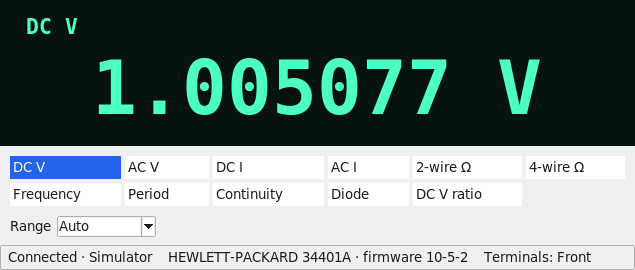
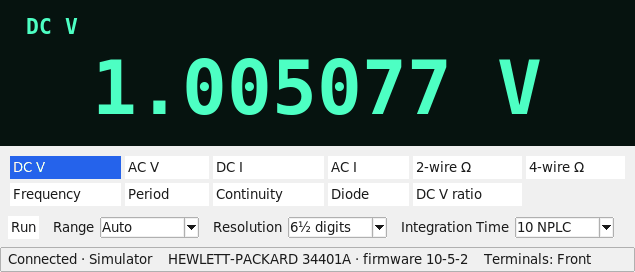
Keep Run/Pause, Resolution and Integration Time in Compact mode (D1)
Compact mode now shows the readout, the Function buttons, Run/Pause and the
Range, Resolution and Integration Time controls; the setup line, Raw Reading
and the tabs stay hidden. README text and the compact_mode screenshot updated
(only that image regenerated: the others differ merely by the Chart's wall
clock). The compact tests ask the layout manager instead of window mapping.

diff --git a/tests/test_gui_app.py b/tests/test_gui_app.py
@@ -1011,21 +1011,30 @@ def test_asking_for_the_shortcuts_twice_shows_one_window(make_window):
 
 
 def _shown(*widgets: tk.Misc) -> list[bool]:
-    return [bool(widget.winfo_ismapped()) for widget in widgets]
+    """Whether each widget is placed in the window (asking the layout, not whether the OS has mapped it yet)."""
+    return [bool(widget.winfo_manager()) for widget in widgets]
 
 
 def _compact_toggle(window: MainWindow) -> None:
     _choose_in_menu(window.menu("View"), "Compact mode")
 
 
-def test_compact_mode_keeps_only_the_readout_the_function_buttons_and_the_range(tk_root):
+def test_compact_mode_keeps_the_readout_the_function_buttons_run_and_the_three_settings_controls(tk_root):
     window = _window_with(tk_root, _settings_with(compact_mode=True))
     try:
         window.add_tab("Extra", ttk.Frame(window.notebook))
         window.root.update()
 
-        kept = [window.readout, window.function_label, window.function_buttons[Function.DC_VOLTAGE], window.range_box]
-        dropped = [window.setup_label, window.run_button, window.resolution_box, window.nplc_box, window.raw_check]
+        kept = [
+            window.readout,
+            window.function_label,
+            window.function_buttons[Function.DC_VOLTAGE],
+            window.run_button,
+            window.range_box,
+            window.resolution_box,
+            window.nplc_box,
+        ]
+        dropped = [window.setup_label, window.raw_check]
         assert all(_shown(*kept))
         assert not any(_shown(*dropped))
         assert not any(_shown(window.notebook))
@@ -1043,16 +1052,15 @@ def test_the_view_menu_switches_compact_mode_on_and_off_and_saves_it(tk_root, tm
 
         assert settings.compact_mode is True
         assert Settings.load(tmp_path).compact_mode is True
-        assert not window.run_button.winfo_ismapped()
+        assert not any(_shown(window.setup_label, window.raw_check, window.notebook))
 
         _compact_toggle(window)
         window.root.update()
 
         assert Settings.load(tmp_path).compact_mode is False
-        assert window.run_button.winfo_ismapped()
-        assert window.setup_label.winfo_ismapped()
-        assert window.resolution_box.winfo_ismapped()
-        assert window.notebook.winfo_ismapped()
+        assert all(
+            _shown(window.run_button, window.setup_label, window.resolution_box, window.raw_check, window.notebook)
+        )
     finally:
         window.close()
 

diff --git a/src/agilent34401a/gui/main_window.py b/src/agilent34401a/gui/main_window.py
@@ -246,10 +246,10 @@ class MainWindow:
         self._controls = controls
         self._control_items: list[tuple[tk.Widget, dict[str, Any], bool]] = []  # widget, pack options, in compact mode
         self.run_button = ttk.Button(controls, text="Run", command=self._toggle_run, state="disabled")
-        self._add_control(self.run_button, {"side": "left", "padx": (0, 12)}, compact=False)
+        self._add_control(self.run_button, {"side": "left", "padx": (0, 12)}, compact=True)
         self.range_box = self._combobox(controls, "Range", self._on_range, compact=True)
-        self.resolution_box = self._combobox(controls, "Resolution", self._on_resolution, compact=False)
-        self.nplc_box = self._combobox(controls, "Integration Time", self._on_nplc, compact=False)
+        self.resolution_box = self._combobox(controls, "Resolution", self._on_resolution, compact=True)
+        self.nplc_box = self._combobox(controls, "Integration Time", self._on_nplc, compact=True)
         self._raw = tk.BooleanVar(value=False)
         self.raw_check = ttk.Checkbutton(controls, text="Raw Reading", variable=self._raw, command=self._render_readout)
         self._add_control(self.raw_check, {"side": "left", "padx": (12, 0)}, compact=False)
@@ -365,7 +365,11 @@ class MainWindow:
         self.menu("View").add_cascade(label="Theme", menu=themes)
 
     def set_compact(self, *, compact: bool) -> None:
-        """Show only the readout, Function buttons and Range (or everything again), and remember the choice."""
+        """Show only the readout, Function buttons, Run/Pause and the Range, Resolution and Integration Time controls.
+
+        Everything else (the setup line, Raw Reading, the tabs) comes back when `compact` is False. The choice is
+        remembered.
+        """
         self.settings.compact_mode = compact
         self._compact_var.set(compact)
         self.settings.save()

diff --git a/README.md b/README.md
@@ -183,7 +183,8 @@ The **View** menu has:
 
 - **Theme**: Light, Dark or System. Light and Dark are built on ttk's `clam` theme, which renders the same on
   Windows and Linux. System uses the platform's native ttk theme as it is. The choice is remembered.
-- **Compact mode**: only the readout, the Function buttons and the Range are left, and the window shrinks to fit. Also
+- **Compact mode**: only the readout, the Function buttons, Run/Pause and the Range, Resolution and Integration Time
+  controls are left (the setup line, Raw Reading and the tabs are hidden), and the window shrinks to fit. Also
   remembered.
 
 | Light | Dark |
@@ -192,7 +193,7 @@ The **View** menu has:
 
 | System | Compact mode |
 |---|---|
-| ![System theme, the platform's native ttk look](docs/images/theme_system.png) | ![Compact mode, only the readout, Function buttons and Range](docs/images/compact_mode.png) |
+| ![System theme, the platform's native ttk look](docs/images/theme_system.png) | ![Compact mode, the readout, Function buttons, Run/Pause and the Range, Resolution and Integration Time controls](docs/images/compact_mode.png) |
 
 ### Keyboard shortcuts
 
